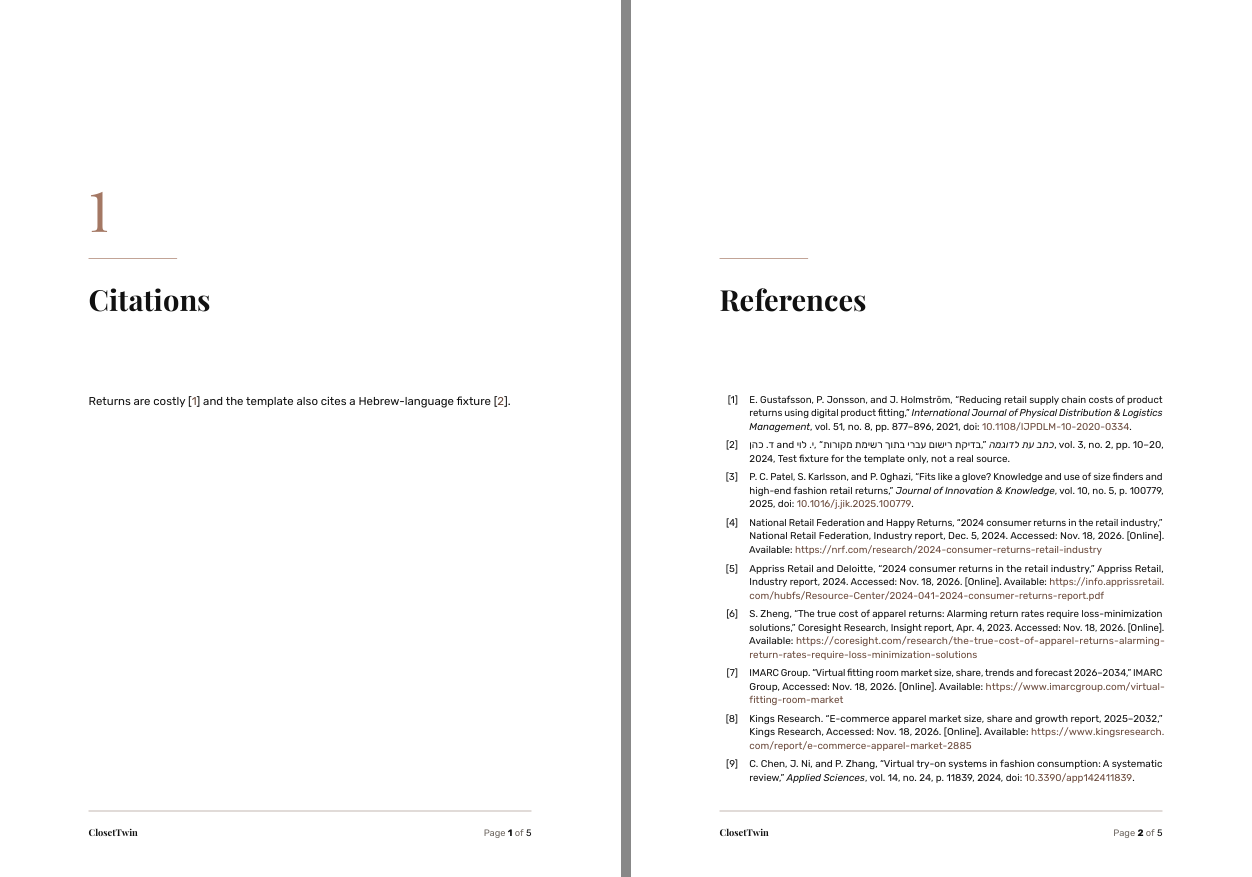
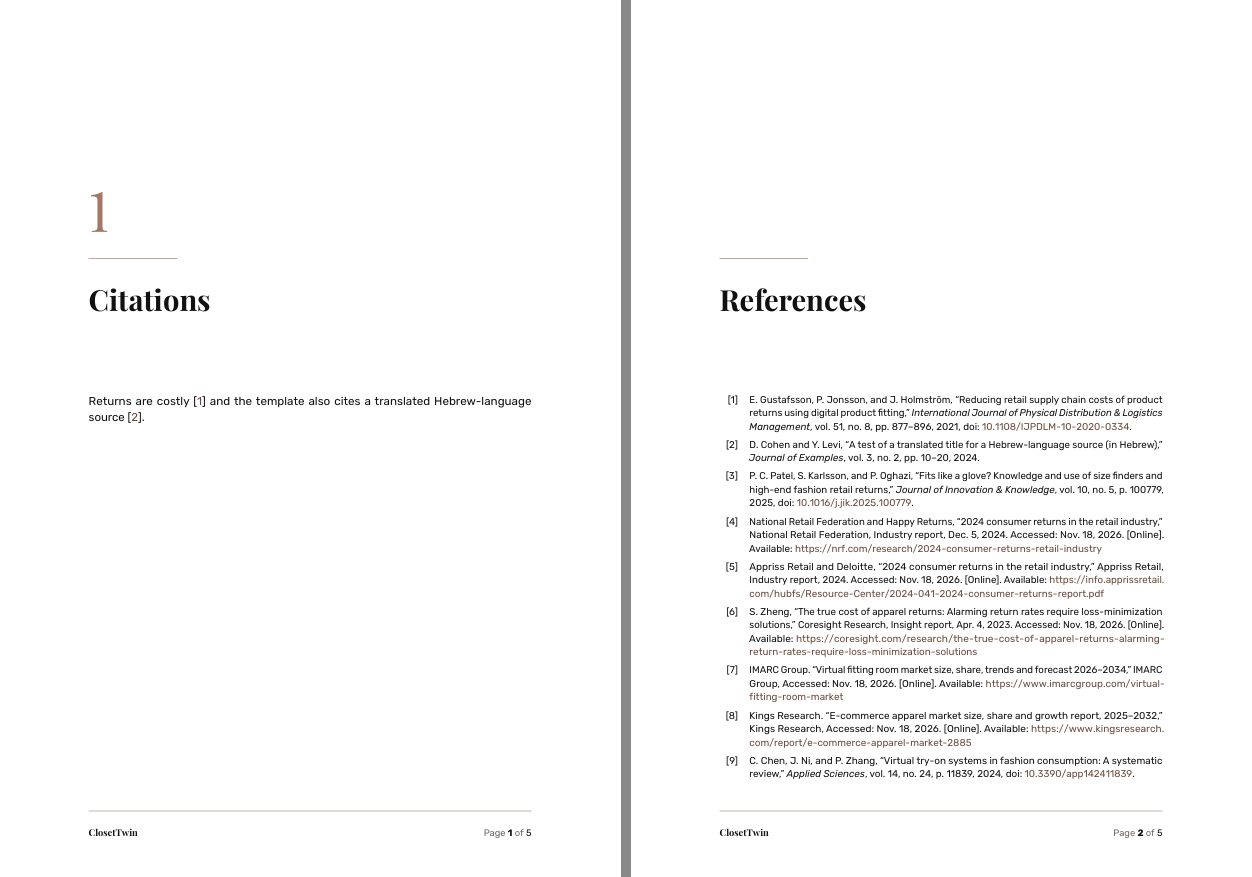
CLS v0.16: cover doctype label, no Hebrew in bib (language field), root README, PRD bib rule

Changed region(s): [[0.5919, 0.4926, 0.9345, 0.8928], [0.0623, 0.431, 0.405, 0.4926]]

diff --git a/fix/tests/stage6.tex b/fix/tests/stage6.tex
@@ -1,11 +1,11 @@
 \newcommand*{\ctfontdir}{../../fonts/}
 \documentclass{closettwin}
 \ctbibresource{../../references.bib}
-\ctbibresource{hebtest.bib}
+\ctbibresource{langtest.bib}
 \begin{document}
 \mainmatter
 \chapter{Citations}
-Returns are costly \cite{gustafsson2021} and the template also cites a Hebrew-language fixture \cite{hebtest2024}.
+Returns are costly \cite{gustafsson2021} and the template also cites a translated Hebrew-language source \cite{langtest2024}.
 \nocite{*}
 \ctreferences
 \end{document}

diff --git a/fix/tests/cover.tex b/fix/tests/cover.tex
@@ -7,6 +7,7 @@
 \ctcourse{Generative AI for Management (875523402)}
 \ctlecturer{Dr. Yoram Segal}
 \ctdate{November 2026}
+\ctdoctype{Business plan · 2026}
 \begin{document}
 \frontmatter
 \ctmakecover

diff --git a/prompts/log/2026-11-19.md b/prompts/log/2026-11-19.md
@@ -471,3 +471,81 @@ NOTE: because of \frenchspacing, line breaks in running text may shift by a word
 yes
 ```
 
+### 20:59 - master-se
+```
+
+
+<pasted_content id="fcbd">
+qa-se is online now. Do these in order:
+
+A. Two changes (fix-se), bump the class version, commit and push:
+1. Cover: add a small label that says what this document is -
+   "BUSINESS PLAN · 2026" in small caps, mocha, near the date line.
+2. Bibliography: no Hebrew script in references.bib. Follow IEEE practice
+   for non-English sources: translated English title + "(in Hebrew)" at the
+   end. Remove the Hebrew test fixture [2] and hebtest.bib; writer-se will
+   apply this rule to any Hebrew source (e.g. Amendment 13) when it is back
+   online. Add the rule to PRD.md and docs/cls-commands.md.
+
+B. Then send qa-se this stress test (course book Prompt B4, adapted):
+"Create fix/tests/b4-stress.tex - ONE page that mixes English text with a
+Hebrew phrase, and a short Hebrew paragraph with English words and numbers
+inside it. Include: decimals (24.4), a range (2024-2026), a percent (30%),
+currency ($49.90 and ₪49.90), a formula, a styled table, a TikZ diagram,
+a code box, a key-number box and an insight box. Compile it, render it to
+docs/screenshots/b4-stress.png, and check it against the course book rules
+(ch.14 BiDi, ch.19 layout). Report only: page area, exact text, rule broken.
+Do not fix." Anything that recurs goes to fix-se.
+
+C. Thin chapter-end pages are normal - accept them.
+   Root README: yes, add the package list and the pointer to
+   docs/template-README.md.
+
+Show me the final B4 page and qa-se's findings.
+</pasted_content id="fcbd">
+```
+
+### 20:59 - master-se
+```
+<cross-session-message from="uds:\\.\pipe\LOCAL\cc-msg-17300464fe30f8269cbe5d55b4dbdd8f" from-name="master-se" from-mode="prompting">
+REQUEST (user, in order):
+1. Cover: add a small label "BUSINESS PLAN · 2026" in small caps, mocha, near the date line. Make it a \ctdoctype{...} command (text from main.tex, default empty = no label; nothing hard-coded). 
+2. Bibliography: NO Hebrew script in references.bib. IEEE practice for non-English sources: translated English title + "(in Hebrew)" at the end. Remove the Hebrew test fixture [2] and fix/tests/hebtest.bib. Remove or keep (your call, note it) the \ctbidi/sourcemap machinery: if no Hebrew can appear in the bib any more, simplify; keep it only if harmless. Make sure biblatex prints "(in Hebrew)" from a field (e.g. note/language or titleaddon) cleanly - give writer-se the exact .bib recipe (an example entry) in docs/cls-commands.md and I add the rule to PRD.md.
+Then: bump class version (v0.16), CHANGELOG row, re-render cls-stage-5.png and cls-stage-6.png, clean build, DONE to me with the example entry. Do not commit.
+</cross-session-message>
+```
+
+### 20:59 - qa-se
+```
+<cross-session-message from="uds:\\.\pipe\LOCAL\cc-msg-17300464fe30f8269cbe5d55b4dbdd8f" from-name="master-se" from-mode="prompting">
+REQUEST (user task, course book Prompt B4 adapted). Create fix/tests/b4-stress.tex (new file under fix/tests/ is fine for this test; ownership note: you are creating a test source only, not editing the CLS) - ONE page that mixes English text with a Hebrew phrase, and a short Hebrew paragraph with English words and numbers inside it. Include: decimals (24.4), a range (2024-2026), a percent (30%), currency ($49.90 and ₪49.90), a formula, a styled table, a TikZ diagram, a code box, a key-number box and an insight box. Use closettwin.cls (currently v0.15; fix-se is making v0.16 - wait for my "v0.16 ready" message before the final compile) and docs/cls-commands.md for the commands; do not hard-code formatting. Compile from the root with the standard sequence, render to docs/screenshots/b4-stress.png (PyMuPDF), check it against the course book rules (ch.14 BiDi, ch.19 layout) and your acceptance criteria. Report only: page area, exact text, rule broken. Do not fix anything. Send REPORT to master-se. Anything recurring I route to fix-se.
+</cross-session-message>
+```
+
+### 21:12 - master-se
+```
+<cross-session-message from="uds:\\.\pipe\LOCAL\cc-msg-7d5eae32fc05003e8dbd1ff0ed89e67e" from-name="fix-se" from-mode="prompting">
+DONE closettwin v0.16 (CHANGELOG row added, versioncheck MATCH), cls-stage-5.png and cls-stage-6.png re-rendered, clean builds (cover 0 errors; stage6 with biber 0 errors). Not committed.
+1) COVER: \ctdoctype{text} in main.tex; empty by default = no label. Test: \ctdoctype{Business plan · 2026} prints "BUSINESS PLAN · 2026" at the top right of the cover, on the same strip as the date (date at the left). Colour: I used mocha-deep #6B4B3D, bold, 7.5pt, not plain mocha, because PRD 5.1 forbids small text in mocha (3.85:1, RT-A3); say if you want plain mocha anyway. There is no small-caps font in Rubik, so it is uppercase.
+2) BIB: removed fix/tests/hebtest.bib and the Hebrew entry. I REMOVED the \ctbidi + biber sourcemap + \mkbibname hooks (v0.15): with no Hebrew in the bib they have no job, and fewer moving parts is safer. New mechanism: `language = {hebrew}` in an entry prints "(in Hebrew)" INSIDE the closing quote of the title (IEEE practice), for article, inproceedings, incollection, book, report, online, misc. Fixture: fix/tests/langtest.bib.
+EXAMPLE ENTRY for writer-se and the PRD rule (also in docs/cls-commands.md section 9):
+@article{cohen2024,
+  author       = {Cohen, Dana and Levi, Yossi},
+  title        = {A test of a translated title for a {Hebrew}-language source},
+  journaltitle = {Journal of Examples},
+  year         = {2024}, volume = {3}, number = {2}, pages = {10--20},
+  language     = {hebrew},
+}
+prints: D. Cohen and Y. Levi, "A test of a translated title for a Hebrew-language source (in Hebrew)," Journal of Examples, vol. 3, no. 2, pp. 10-20, 2024.
+RULE: translated English title + language = {hebrew}; never type "(in Hebrew)" in the title yourself (it would print twice); never any Hebrew letters in any field; transliterate author names; protect proper nouns in the title with braces ({Hebrew}, {Israel}) because the style lowercases titles; any original title only in `note`, in Latin letters.
+ACTION for writer-se: references.bib line 393 (and any other) has "(in Hebrew)" typed inside title: delete that text and add language = {hebrew}. Other note fields with Hebrew transliterations are fine.
+</cross-session-message>
+```
+
+### 21:12 - qa-se
+```
+<cross-session-message from="uds:\\.\pipe\LOCAL\cc-msg-17300464fe30f8269cbe5d55b4dbdd8f" from-name="master-se" from-mode="prompting">
+v0.16 ready: closettwin.cls is now v0.16 (new \ctdoctype cover label, Hebrew bib handling removed). Do the final compile of fix/tests/b4-stress.tex with it, render docs/screenshots/b4-stress.png, and send REPORT to master-se (page area, exact text, rule broken; no fixes).
+</cross-session-message>
+```
+

diff --git a/fix/CHANGELOG.md b/fix/CHANGELOG.md
@@ -19,3 +19,4 @@ Format: date | version | finding / reporter | problem | root cause | fix | files
 | 2026-11-19 | closettwin v0.13 | master-se (part A) + art-se leftovers | Banner on chapter openers; code line numbers faint; long code lines could overflow silently | magazine style wants a clean opener; listings breaks a long unbroken token without a marker | `plain` page style = footer only (chapter, `\chapter*`, contents, `hebrewpage` openers: no banner); `hebrewpage` uses `\thispagestyle{plain}`; line numbers 22.5%-size and mocha-deep!70; wrapped code lines get a mocha backslash + `breakindent`; `pythonbox` counts lines longer than 80 characters (Lua) and issues `\ClassWarningNoLine`. Figure label sizes verified equal (7.97pt, PRD 8pt) | closettwin.cls |
 | 2026-11-19 | closettwin v0.14 | master-se (stages 5+6) | Cover and references needed | n/a | `\ctmakecover` redone as a TikZ magazine cover (ivory, full-measure masthead from `\cttitle`, rules, subtitle, powder-pink arch with a hanger/dress and its dashed digital twin, cover lines from `\ctauthors \ctgroup \ctcourse \ctlecturer \ctdate`, labels `\ctlabel...`, no IDs); biblatex (biber, `style=ieee`, numeric, `sorting=none`) with `\ctbibresource{}` and `\ctreferences` (unnumbered chapter, small text); docs/cls-commands.md and docs/template-README.md | closettwin.cls, docs/cls-commands.md, docs/template-README.md |
 | 2026-11-19 | closettwin v0.15 | art-se via master-se (stages 5+6 review r1) | Course twice on the cover; wide gap in `Dr. Yoram`; reference numbers grouped (100 779) and breakable ranges; Hebrew reference entry in wrong visual order; unnumbered opener 67px higher than numbered | (1) cover top strip repeated the course; (2) TeX adds sentence space after a period, a plain space; (3) biblatex-ieee `\mkonepagegrouped` groups digits; (4) Hebrew name parts/titles ran together with English punctuation in one bidi run; (5) `\chapter*` opener had no number block | (1) top strip = date only; (2) `\frenchspacing` + a LuaTeX `process_input_buffer` rule: no-break space after Dr. Prof. Mr. Mrs. Ms. Fig. Eq. Sec. Ch. Tab. No. in every .tex file; (3) `\mkonepagegrouped` = identity, `\bibrangedash` unbreakable; (4) `\ctbidi{}` isolates Hebrew runs: name parts via `\mkbibname...`, title/journaltitle/booktitle/publisher/institution via a biber sourcemap; (5) unnumbered opener gets an invisible 54pt number line, so numbered, unnumbered and Hebrew openers all have the rule at y=248.2pt and the title baseline at 298.8pt | closettwin.cls, docs/cls-commands.md |
+| 2026-11-19 | closettwin v0.16 | user via master-se | Cover needs a document-type label; no Hebrew script in the bibliography | policy: IEEE practice for non-English sources is the translated title plus (in Hebrew) | `\ctdoctype{text}` (bold small caps-style label, mocha-deep for contrast per PRD 5.1, top right of the cover, empty = none); `language = {hebrew}` in a .bib entry prints `(in Hebrew)` inside the closing quote of the title (list format + `\AtEveryBibitem`, all quote-style types); the `\ctbidi`/sourcemap machinery of v0.15 is REMOVED (no Hebrew can reach the bibliography; less to go wrong); recipe in docs/cls-commands.md; fixture fix/tests/hebtest.bib deleted, fix/tests/langtest.bib added | closettwin.cls, docs/cls-commands.md |

diff --git a/docs/cls-commands.md b/docs/cls-commands.md
@@ -20,7 +20,7 @@ Build from the project root (the fonts are loaded from `fonts/`).
 ## 2. Cover (`\ctmakecover`, stage 5)
 
 Fields (all optional, no ID-number field exists):
-`\cttitle` `\ctsubtitle` `\ctauthors` `\ctgroup` `\ctcourse` `\ctlecturer` `\ctdate`.
+`\cttitle` `\ctsubtitle` `\ctauthors` `\ctgroup` `\ctcourse` `\ctlecturer` `\ctdate`, plus `\ctdoctype{Business plan · 2026}` (small bold label at the top right of the cover; empty by default = no label).
 Labels: `\ctlabelauthors` `\ctlabelgroup` `\ctlabelcourse` `\ctlabellecturer` (English defaults, redefinable).
 
 ```latex
@@ -115,12 +115,32 @@ Formulas are Latin Modern Math only (letters, digits, `\mathrm`). Text-mode numb
 ...
 \ctreferences                       % where the list goes (unnumbered chapter "References")
 ```
+### Non-English (Hebrew) sources: no Hebrew script in the .bib
+
+IEEE practice: give the **English translation of the title** and mark the source as Hebrew with the `language` field.
+The class prints `(in Hebrew)` inside the closing quote of the title. Protect proper nouns with braces (the style lowercases the title).
+
+```bibtex
+@article{cohen2024,
+  author       = {Cohen, Dana and Levi, Yossi},
+  title        = {A test of a translated title for a {Hebrew}-language source},
+  journaltitle = {Journal of Examples},
+  year         = {2024},
+  volume       = {3},
+  number       = {2},
+  pages        = {10--20},
+  language     = {hebrew},   % prints: ... source (in Hebrew),"
+}
+```
+Result: `D. Cohen and Y. Levi, "A test of a translated title for a Hebrew-language source (in Hebrew)," Journal of Examples, vol. 3, no. 2, pp. 10-20, 2024.`
+Do NOT also write "(in Hebrew)" in the title text and never put Hebrew letters in any field. Transliterate author names and keep the original title only in the `note` field if you need it, in Latin letters.
+
 Cite with `\cite{key}`. Build: lualatex, biber, lualatex, lualatex.
 
 ### Typographic rules done by the class
 
 * After `Dr.`, `Prof.`, `Mr.`, `Mrs.`, `Ms.`, `Fig.`, `Eq.`, `Sec.`, `Ch.`, `Tab.`, `No.` the space is a no-break space (`Dr. Yoram` never stretches), in every `.tex` file.
-* References: digits are not grouped (`p. 100779`), page ranges never break, and Hebrew name parts and Hebrew titles are isolated runs (`\ctbidi{..}`), so punctuation and "and" keep the English order.
+* References: digits are not grouped (`p. 100779`) and page ranges never break. No Hebrew script is ever put in `references.bib` (see section 9).
 
 ## 10. Colours (single definitions, PRD 5.1)
 

diff --git a/README.md b/README.md
@@ -1,0 +1,44 @@
+# ClosetTwin report (assignment 02)
+
+A Hebrew/English (RTL + LTR) business-plan report, typeset with **LuaLaTeX** (MiKTeX) and the project class `closettwin.cls`.
+
+* What we deliver: `PRD.md`. How and in what order: `PLAN.md`. Who does what now: `TODO.md`.
+* Using the class in another document: **`docs/template-README.md`**. Every command with an example: `docs/cls-commands.md`.
+* Class history: `fix/CHANGELOG.md`.
+
+## Build
+From the project root, always this order (the class loads the fonts by relative path from `fonts/`):
+
+```
+lualatex --disable-installer main
+biber main
+lualatex --disable-installer main
+lualatex --disable-installer main
+```
+
+`--disable-installer` makes a missing MiKTeX package an error instead of a hanging install prompt.
+A build is clean only with no errors, no undefined references or citations, and no overfull boxes over 1 pt.
+Python is run as `python`; the graph scripts in `python/` write to `figures/`.
+
+## Requirements
+* MiKTeX with LuaLaTeX, biber 2.21, biblatex 3.21 (MiKTeX 25.12).
+* MiKTeX packages: fontspec, unicode-math, babel (hebrew, english), titlesec, titletoc, enumitem, booktabs, colortbl,
+  tabularx, caption, placeins, microtype, csquotes, tikz, tcolorbox (listings, skins, breakable), listings, xkeyval,
+  etoolbox, iftex, hyperref, geometry, amsmath, biblatex, biblatex-ieee, biber.
+  (`lastpage` and `needspace` are not needed: the class has its own.)
+* Fonts (OFL, in `fonts/`): Playfair Display (English headings), Rubik (body and all Hebrew), JetBrains Mono (code box only);
+  Latin Modern Math for formulas.
+* Python 3 with matplotlib and PyMuPDF for the figures and the page renders.
+
+## Layout of the repository
+| Path | Content |
+|------|---------|
+| `main.tex`, `chapters/` | the report |
+| `closettwin.cls`, `fonts/` | the class and its fonts |
+| `references.bib` | bibliography (no Hebrew script; see `docs/cls-commands.md`) |
+| `python/`, `figures/` | graph scripts and their output |
+| `docs/` | class documentation and screenshots |
+| `prompts/` | curated prompts and the automatic prompt log |
+| `writer/`, `art/`, `qa/`, `fix/` | each agent's notes and reports (not part of the deliverable) |
+
+Team rules: `CLAUDE.md`.

diff --git a/PRD.md b/PRD.md
@@ -76,7 +76,7 @@ plus our assumption) or **assumed**, and is labeled that way.*
 | Missing glyphs | `\tracinglostchars=3`, so any missing glyph is a build **error**, not a silent warning (RT-F4) |
 | Banner / footer | Drawn with the kernel `shipout/background` hook. No TikZ `remember picture`, so no extra pass is needed (RT-F6). Design in §5.3 |
 | Floats | `\FloatBarrier` at each chapter's end, `\raggedbottom`, and tuned float parameters (RT-F7) |
-| Bibliography | `biblatex` `style=ieee`, `backend=biber`, `csquotes`. URLs in Rubik (`\urlstyle{same}`). The bibliography is set in a smaller size so it fits 2 pages |
+| Bibliography | `biblatex` `style=ieee`, `backend=biber`, `csquotes`. URLs in Rubik (`\urlstyle{same}`). The bibliography is set in a smaller size so it fits 2 pages. **No Hebrew script in `references.bib`** (user decision 2026-11-19): a Hebrew source is cited the IEEE way for non-English sources, with an English translated title and "(in Hebrew)" at the end. Recipe: put `language = {hebrew}` in the entry and the class prints "(in Hebrew)" itself; never type it in the title, never any Hebrew letters in any field, transliterate author names, protect proper nouns with braces (`{Hebrew}`, `{Israel}`). Example entry in `docs/cls-commands.md` §9 |
 | Public macros | `\pct{}`, `\usd{}`, `\ils{}`, `\sourced`/`\derived`/`\assumed` tags (3 classes, RT-W8/RT-Q6), `hebrewpage`, the Hebrew heading, the color names, the TikZ style keys (from art-se), `statcard`, `pullquote`, **`pythonbox`** (the code box: an ivory background with a hairline, JetBrains Mono, LTR, line numbers, reading the real script file so the code shown is the code that ran) |
 | Page geometry | A4, left/right margins 3.0 cm → **text width 15.0 cm** (`TEXTWIDTH_IN = 5.906`). Top 3.6 cm, bottom 3.0 cm. Rubik 11/15.5 pt, paragraph skip 0.6 em, no indent. About 430–480 words per page, so 27 pages need about 7–8k words. **Never shrink the margins to reach the page count** |
 | Build | From the root only: `lualatex --disable-installer main` → `biber main` → `lualatex …` ×2. The README lists the MiKTeX packages and their versions (RT-F2) |

diff --git a/TODO.md b/TODO.md
@@ -103,3 +103,5 @@ Check for every chapter: it compiles, it is within ±1 page of budget, every cla
 | T20.9 | QS1: `qa/skill-specs.md`, a spec for each of the 8 skills → input to T3.x | qa-se | 8 specs with commands and criteria IDs | ☑ |
 | T20.10 | QS2: 12 helper scripts in `qa/scripts/` (tested on t5 + planted defects) → fix-se copies them into the skills | qa-se | Each catches its planted defect | ◐ |
 | T20.11 | Re-check the Hebrew quotes in claim-trace §G (IL01–IL25) against the PDFs (they were transcribed from page images) and, if possible, open the gov.il PPA pages on Amendment 13/biometrics in a browser (the agents got HTTP 403) | user | Quotes confirmed | ☐ |
+
+- [ ] writer-se (when online): references.bib line ~393 has "(in Hebrew)" typed inside title: delete it and add `language = {hebrew}` (rule: PRD 5.x Bibliography, docs/cls-commands.md section 9). Check every other Hebrew-language source the same way (e.g. Amendment 13).
